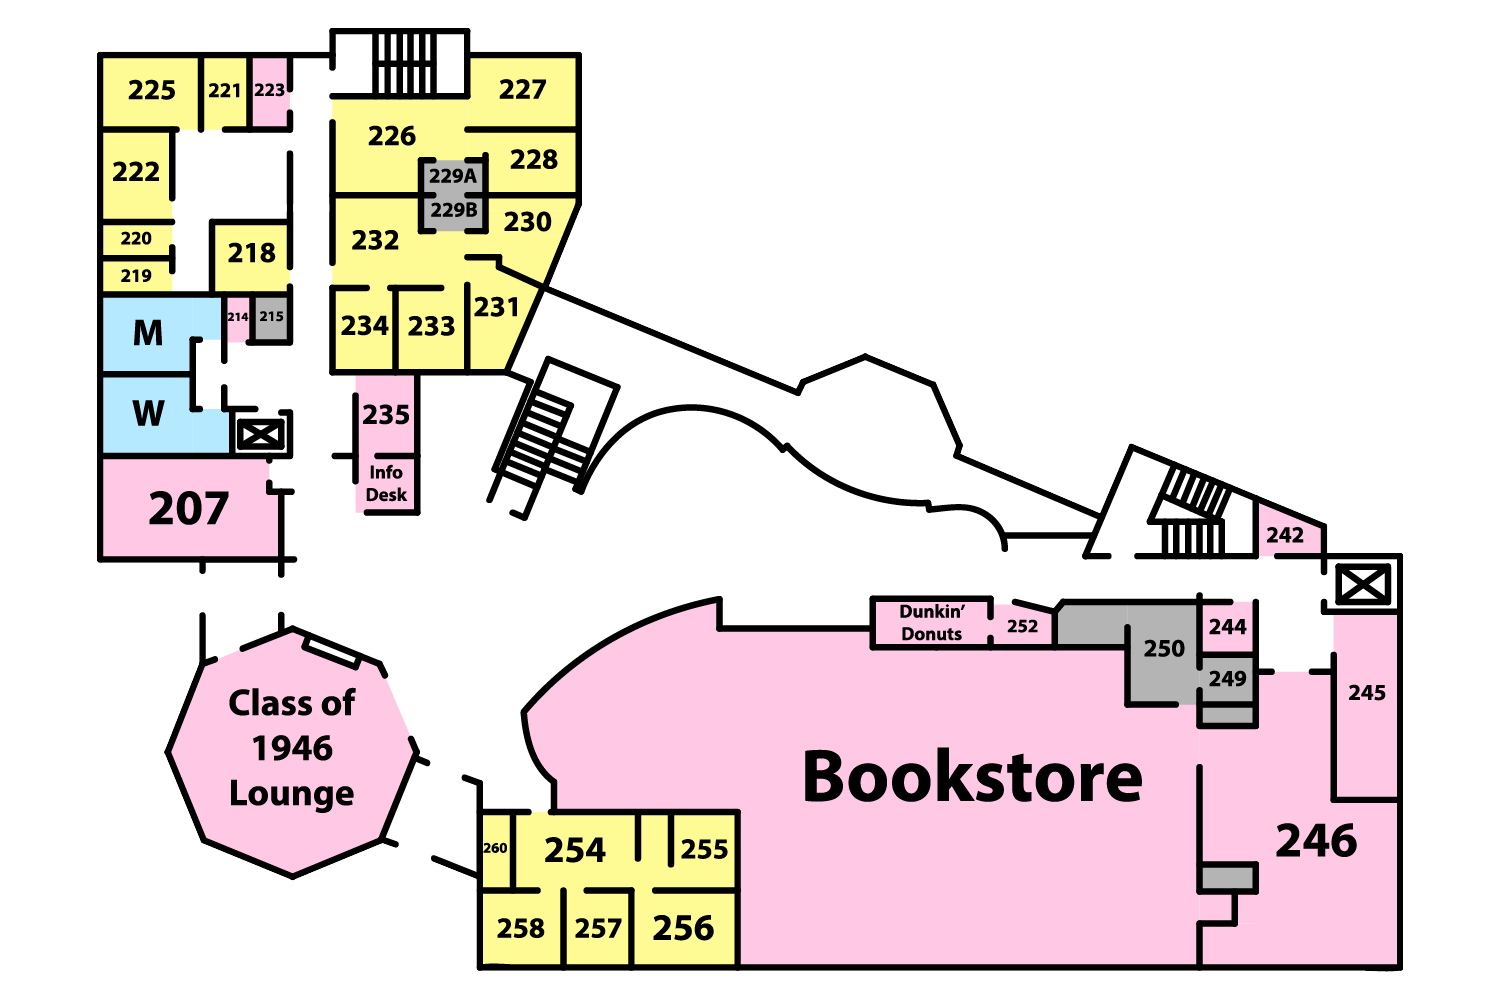
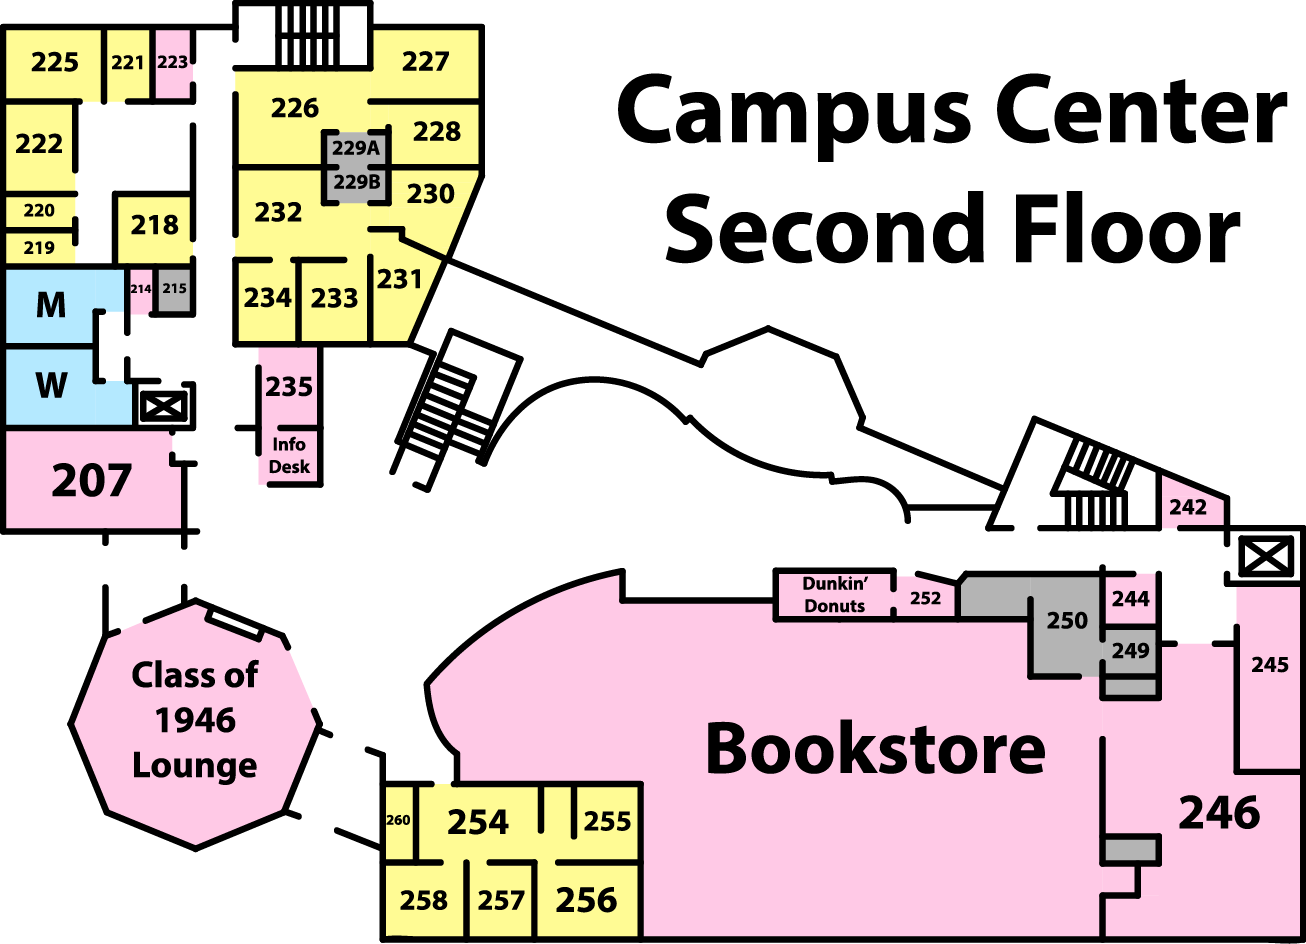
Updated Layered Map Graphics....

diff --git a/src/gps/GPSapp.java b/src/gps/GPSapp.java
@@ -370,7 +370,7 @@ public class GPSapp extends Application{
 	    
 	    //attach background over map
 	    File newBackground = new File("CS3733_Graphics/white.png");
-     	Image backgroundImage = new Image(newBackground.toURI().toString());
+     	final Image backgroundImage = new Image(newBackground.toURI().toString());
          imageView.setImage(backgroundImage);
    	     Pane NodePane = new Pane();
          gc.clearRect(0, 0, 800, 600);
@@ -383,8 +383,8 @@ public class GPSapp extends Application{
  	    
  	   //Attach 3D image of building
  		File buildingFile = new File("CS3733_Graphics/"+building.getName()+".png");
- 		Image b = new Image(buildingFile.toURI().toString());
-		ImageView bImage = new ImageView();
+ 		final Image b = new Image(buildingFile.toURI().toString());
+		final ImageView bImage = new ImageView();
 		bImage.setImage(b);
 		bImage.setLayoutX(400);
 		bImage.setLayoutY(150);
@@ -398,6 +398,24 @@ public class GPSapp extends Application{
 		BuildingNameLabel.setLayoutY(560);
     	root.getChildren().addAll(BuildingNameLabel);
     	
+//Attach Building label
+    	
+    	final Button BackButton = new Button("Back");
+    	BackButton.setTextFill(Color.BLACK);
+    	BackButton.setFont(Font.font ("manteka", 30));
+    	BackButton.setLayoutX(650);
+    	BackButton.setLayoutY(530);
+    	root.getChildren().addAll(BackButton);
+    	BackButton.setOnMouseClicked(new EventHandler<MouseEvent>() {
+    			public void handle(MouseEvent event) {
+    				//b = null;
+    	    		//bImage = null;
+    	    		//backgroundImage = null;
+    				root.getChildren().remove(BackButton);
+    				loadMap(root, zoomPane, imageView);
+    				
+    			}
+    	});
     	
  	    
     	//Load the layered Maps
@@ -406,13 +424,12 @@ public class GPSapp extends Application{
     	for(int i = 1; i <= building.getNumFloors(); i++){
     		currentFloor = i;
     		System.out.println("CS3733_Graphics/LayerMap/"+building.getName()+currentFloor+"L.png");
-    		File mapFile = new File("CS3733_Graphics/"+building.getName()+currentFloor+".png");//Change back to above
+    		File mapFile = new File("CS3733_Graphics/LayerMap/"+building.getName()+currentFloor+"L.png");//Change back to above
     		Image image = new Image(mapFile.toURI().toString());
     		ImageView mapImageView = new ImageView();
     		mapImageView.setImage(image);
+
     		
-    		
-   	     	
    	     	Group g1 = new Group();
    	     	g1.setEffect(pt);
    	     	g1.getChildren().add(mapImageView);
@@ -448,25 +465,11 @@ public class GPSapp extends Application{
    	     		}
    	     	});
    	     	g1.setLayoutX(120);
-   	     	g1.setLayoutY(100-i*50);
+   	     	g1.setLayoutY(100-i*45);
    	     	applyAnimation(g1, i); 
    	     	root.getChildren().add(g1);
+   	     	
     	}
-    	
-    	//Attach Building label
-	    	final Button BackButton = new Button("Back");
-	    	BackButton.setTextFill(Color.BLACK);
-	    	BackButton.setFont(Font.font ("manteka", 30));
-	    	BackButton.setLayoutX(650);
-	    	BackButton.setLayoutY(530);
-	    	root.getChildren().addAll(BackButton);
-	    	BackButton.setOnMouseClicked(new EventHandler<MouseEvent>() {
-	    			public void handle(MouseEvent event) {
-	    				root.getChildren().remove(BackButton);
-	    				loadMap(root, zoomPane, imageView);
-	    				
-	    			}
-	    	});
 	}
     
     private void applyAnimation(Group g1, int i){
@@ -474,11 +477,11 @@ public class GPSapp extends Application{
 		 //FLOOR 1
 		 Path g1path = new Path();
 		 MoveTo g1moveTo = new MoveTo();
-		 g1moveTo.setX(600.0f);
+		 g1moveTo.setX(500.0f);
 		 g1moveTo.setY(600.0f);
 		 LineTo g1lineTo = new LineTo();
-		 g1lineTo.setX(600.0f);
-		 g1lineTo.setY(570.0f - i*10);
+		 g1lineTo.setX(500.0f);
+		 g1lineTo.setY(560.0f - i*10);
 		 g1path.getElements().add(g1moveTo);
 		 g1path.getElements().add(g1lineTo);
 
